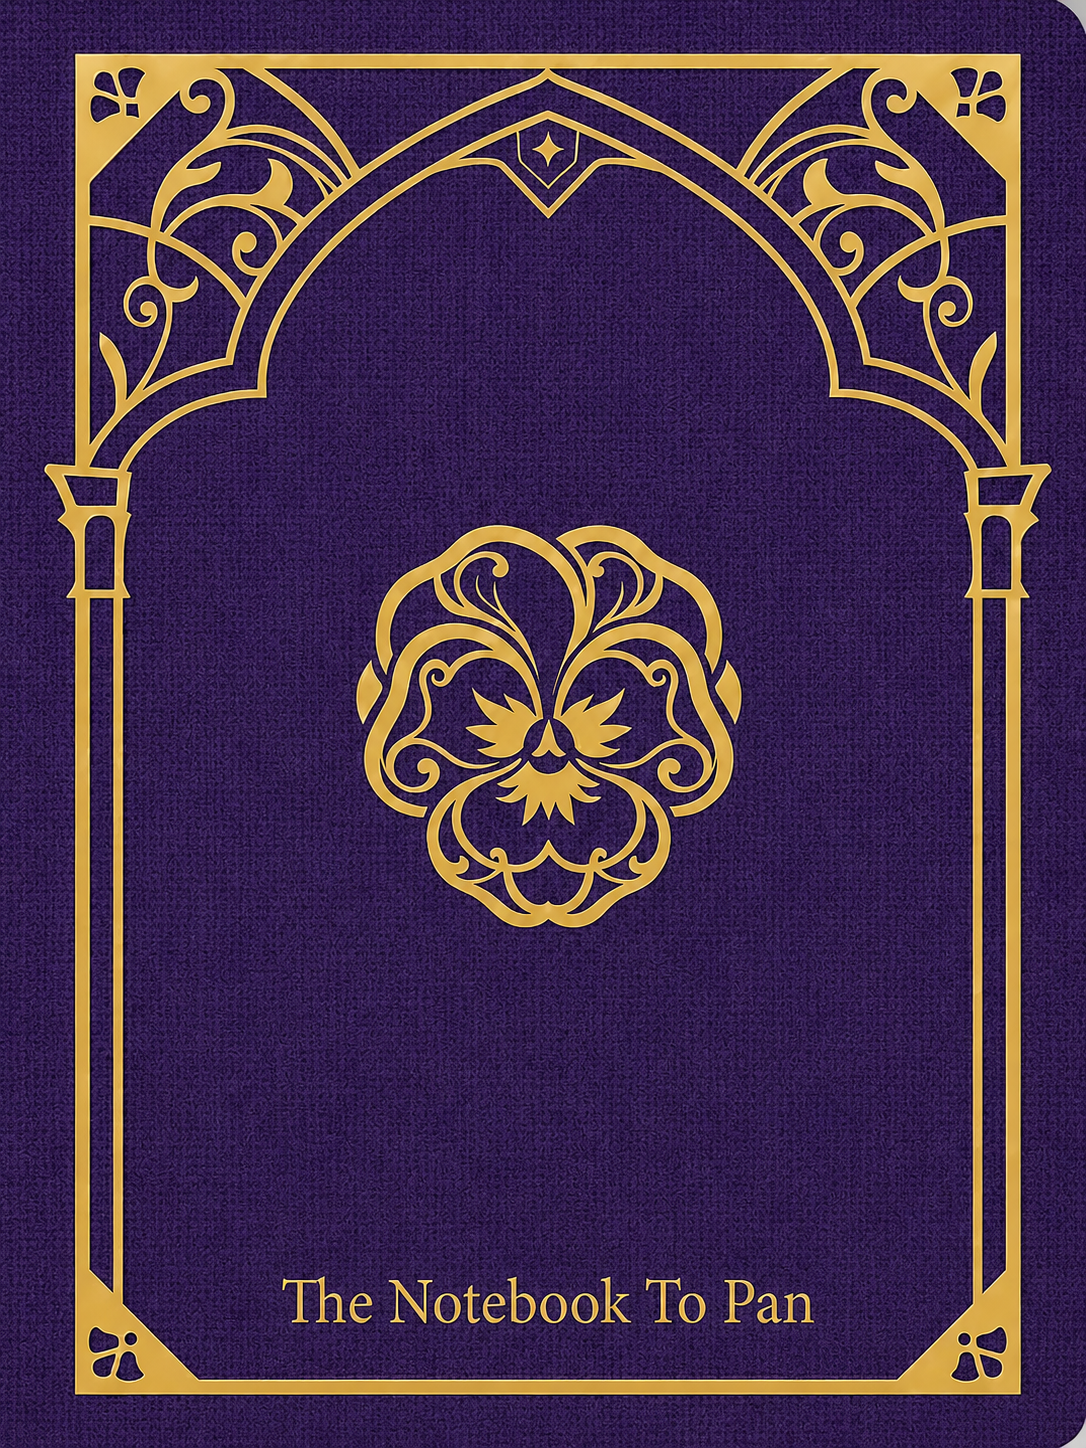
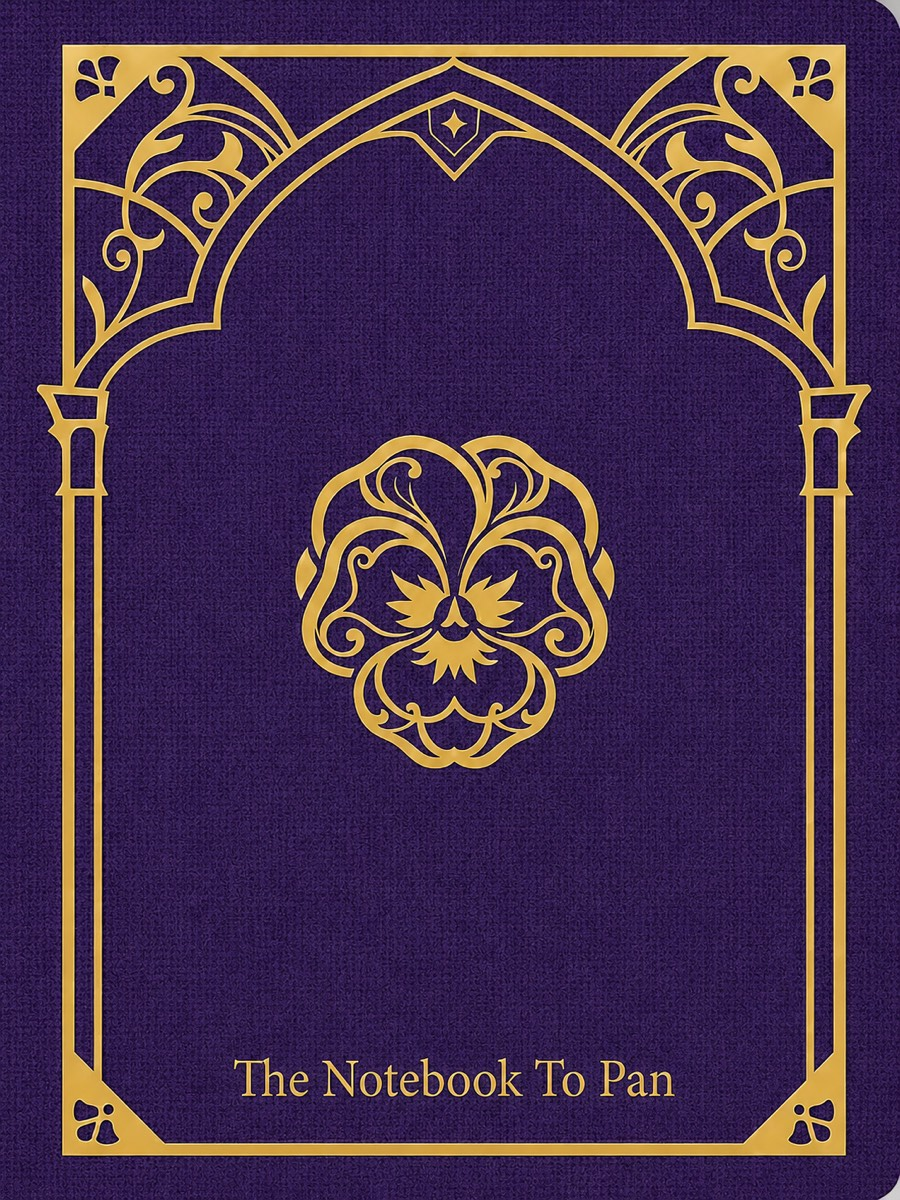
perf: compress cover (3.1MB→390KB), lazy-load pages; manual: org upload steps + image-size guidance

diff --git a/script.js b/script.js
@@ -42,7 +42,7 @@
     draw.innerHTML = `
       <div class="page-inner">
         <button class="zoom-btn" data-zoom="${i}" data-kind="drawing" type="button">⤢&nbsp;view</button>
-        <img class="page-art" src="${l.drawing}" alt="Drawing for letter ${n}" />
+        <img class="page-art" src="${l.drawing}" alt="Drawing for letter ${n}" loading="lazy" />
         ${FRAME}
         <div class="page-tag">
           <span class="page-no">Letter&nbsp;№&nbsp;${n}</span>
@@ -56,7 +56,7 @@
     letter.innerHTML = `
       <div class="page-inner">
         <button class="zoom-btn" data-zoom="${i}" data-kind="letter" type="button">⤢&nbsp;read</button>
-        <img class="page-art" src="${l.letter}" alt="Letter ${n}" />
+        <img class="page-art" src="${l.letter}" alt="Letter ${n}" loading="lazy" />
         ${FRAME}
       </div>`;
     book.appendChild(letter);

diff --git a/upload-manual.md b/upload-manual.md
@@ -32,9 +32,14 @@ that ties them together.
     **crops to fill** instead, so you don't get big ugly margins.
   - 👉 Shoot/scan at **Letter size (1:1.3)** and you get the full image with no
     crop and no visible margins.
-- **Size:** anything is fine (it auto-scales). If the photo is huge (3–8 MB),
-  shrink it to ~1200px wide / ~80% quality first — https://squoosh.app does it in
-  seconds. Keeps the site fast.
+- **Size — important for speed:** big photos make the site load slowly for
+  everyone. A phone photo is often 3–8 MB; **shrink each one to roughly
+  1000–1200 px wide and aim for under ~400 KB** before uploading.
+  - Easiest: **https://squoosh.app** — drag your photo in, pull the quality slider
+    down until the size (shown bottom-right) is ~300–400 KB, download.
+  - On iPhone: the **Image Size** shortcut/app, or email it to yourself at
+    "Medium" size.
+  - Rule of thumb: if a photo is over ~1 MB, shrink it first.
 
 ## Step 2 — Name them
 
@@ -52,26 +57,36 @@ Use the **next number** in line, then `-drawing` or `-letter`:
 > You do **not** type the letter number or the date. The number comes from the
 > order, and the date comes from the photo — both are filled in automatically.
 
-## Step 3 — Put them in the `letters/` folder
+## Step 3 — Upload them on github.com
 
-This depends on where the site lives.
+**You never use git or a terminal.** Everything happens on the GitHub website,
+and it works the same on your phone, iPad, or laptop. You just need to be
+**signed in** to GitHub (the account that's in the `thenotebooktopan` org).
 
-### A) Online — on GitHub (your phone, iPad, or laptop)
-1. Open your repository in any browser.
-2. Click into the **`letters`** folder.
-3. Click **Add file → Upload files**.
-4. **Drag both photos** in (or tap to choose them).
-5. Scroll down, click **Commit changes**.
-6. Wait ~30–60 seconds. The site rebuilds itself and your new letter appears.
-   *(A built-in helper renumbers and dates everything for you — nothing else to do.)*
+The site lives here:
+> **Repo:** https://github.com/thenotebooktopan/thenotebooktopan.github.io
+> **Letters folder:** https://github.com/thenotebooktopan/thenotebooktopan.github.io/tree/main/letters
 
-### B) On your own computer (local preview)
+### Upload a new letter
+1. Open the **upload page** directly (bookmark this — it's the whole job):
+   **https://github.com/thenotebooktopan/thenotebooktopan.github.io/upload/main/letters**
+2. **Drag your two photos** onto the page (or tap **"choose your files"**).
+   Make sure they're named like `004-drawing.jpg` and `004-letter.jpg`.
+3. Scroll down to **Commit changes**. Leave **"Commit directly to the `main`
+   branch"** selected.
+4. Tap the green **Commit changes** button.
+5. Wait ~30–60 seconds. A robot (the built-in Action) automatically numbers and
+   dates your letter and rebuilds the site. Refresh
+   **https://thenotebooktopan.github.io/** and your new page is there.
+
+That's it. No code, no commands — drag two photos in, tap Commit. 📲
+
+### (Optional) On your own computer
+If you ever work on a laptop with the project downloaded:
 1. Drop both photos into the `letters/` folder.
-2. In a terminal, from the project folder, run:
-   ```bash
-   node generate-letters.mjs
-   ```
-3. Refresh the page in your browser. Done.
+2. Run `node generate-letters.mjs` in a terminal.
+3. Refresh your local preview. (When uploading online instead, the robot does
+   this step for you.)
 
 ---
 